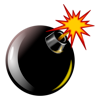
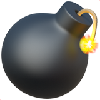
resized images and new images

diff --git a/src/App.js b/src/App.js
@@ -4,9 +4,9 @@ import Square from "./components/Square"
 import Footer from "./components/Footer"
 import CustomAlert from "./components/CustomAlert"
 import chest from './images/chest100.png'
-import bomb from './images/bomba100.png'
+import bomb from './images/bomb100.png'
 import skull from './images/skull100.png'
-import tree from './images/grass100.png'
+import tree from './images/palm100.png'
 
 
 const App = () => {
@@ -43,10 +43,10 @@ const App = () => {
     // set condition for if treasure location is same as clicked square's index : show a treasure
     if(clickSquareIndex === treasureLocation) {
       // updates the clicked square with the treasure emoji
-      updatedBoard[clickSquareIndex] = <img src={chest} alt="Chest" />
+      updatedBoard[clickSquareIndex] = <img src={chest} alt="Chest" width={120}/>
       setGameEnd(true)
       setTimeout(function() {
-        showAlert("You found the treasure!", 'You Win!', <img src={chest} alt="Chest" />)
+        showAlert("You found the treasure!", 'You Win!', <img src={chest} alt="Chest" width={120}/>)
       }, 300)
       // updates board
       setBoard(updatedBoard)
@@ -55,10 +55,10 @@ const App = () => {
     // set condition for if bomb location is same as clicked square's index : show a bomb
     if (clickSquareIndex === bombLocation) {
       // updates the clicked square with the bomb emoji
-      updatedBoard[clickSquareIndex] = <img src={bomb} alt="Bomb" />
+      updatedBoard[clickSquareIndex] = <img src={bomb} alt="Bomb" width={120}/>
       setGameEnd(true)
       setTimeout(function() {
-        showAlert('You found the bomb!', 'You lose!', <img src={bomb} alt="Bomb" />)
+        showAlert('You found the bomb!', 'You lose!', <img src={bomb} alt="Bomb" width={120}/>)
       }, 300)
       // updates board
       setBoard(updatedBoard)
@@ -68,10 +68,10 @@ const App = () => {
     if (clickCounter === 1) {
       setClickCounter(clickCounter - 1)
       // updates the clicked square with the tree emoji
-      updatedBoard[clickSquareIndex] = <img src={tree} alt="Tree" />
+      updatedBoard[clickSquareIndex] = <img src={tree} alt="Tree" width={120}/>
       setGameEnd(true)
       setTimeout(function() {
-        showAlert('Stranded without supplies!', 'You lose!', <img src={skull} alt="Skull" />)
+        showAlert('Stranded without supplies!', 'You lose!', <img src={skull} alt="Skull" width={120}/>)
       }, 300)
       // updates board
       setBoard(updatedBoard)
@@ -79,7 +79,7 @@ const App = () => {
     }
     setClickCounter(clickCounter - 1)
     // updates the clicked square with the tree emoji
-    updatedBoard[clickSquareIndex] = <img src={tree} alt="Tree" />
+    updatedBoard[clickSquareIndex] = <img src={tree} alt="Tree" width={120}/>
     // updates board
     setBoard(updatedBoard)
   }
